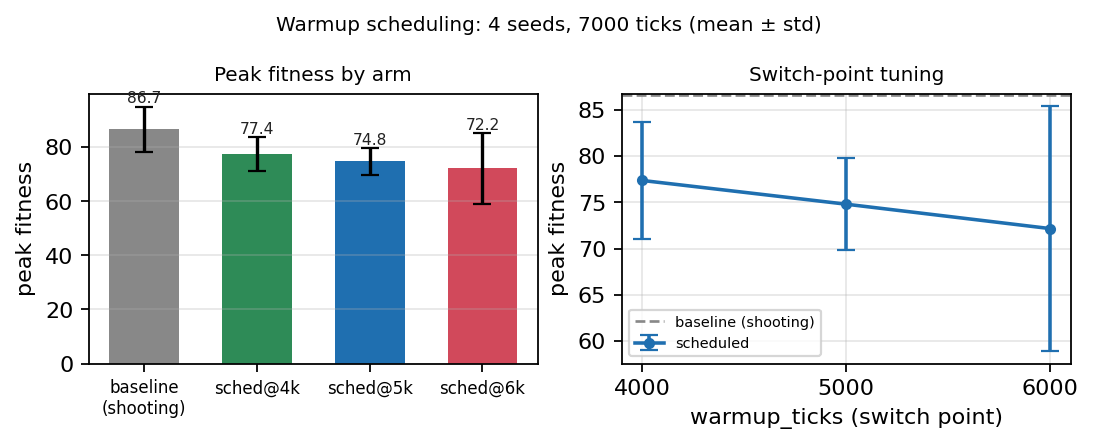
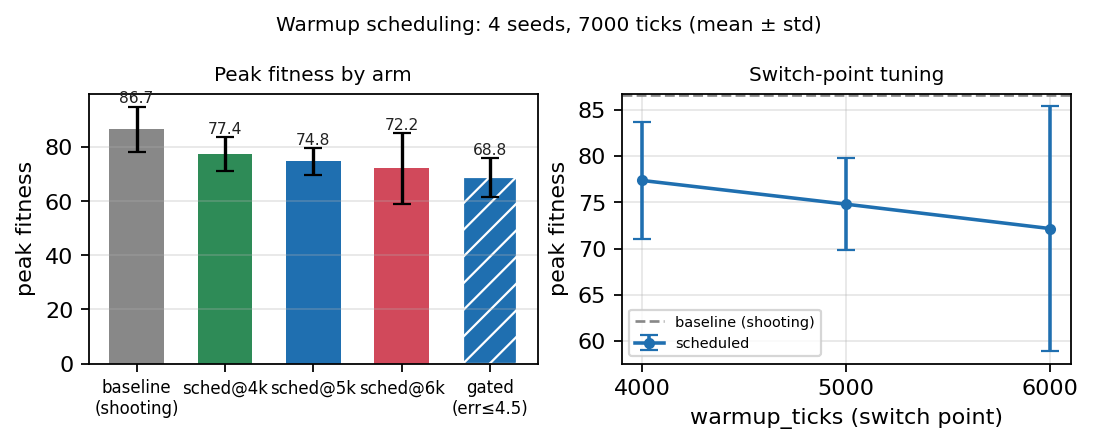
measure readiness gate downstream: does not rescue CEM+imagination (honest result)
A/B of the M2 error-threshold gate at the sweep's exact conditions
(planning_sched_gated_v35.yaml: P1 until per-agent rollout-error EMA <= 4.5,
deadline 6k; seeds 1-4 x 7,000 ticks):

- Gated peak 68.8 +/- 7.4, final 49.9 +/- 8.5 — 0/4 seeds beat the shooting
  baseline (86.7 +/- 8.4); trails even fixed sched@4k (77.4).
- Gate behaves correctly: earliest error crossing (seed 2, ~tick 2,500) gave
  the best gated run (81.5); seeds 3/4 never crossed and rode the 6k deadline.
  Per-agent gating + population turnover keeps switches late/partial (higher
  ticks/s for the gated arm).
- Conclusion across three designs (20-run replication, 16-run sweep, 4-run
  gated A/B): no gating policy, fixed or measured, makes CEM+imagination
  competitive with plain shooting on this task.

Artifacts: sweep dir gains results_gated.csv + gated_s*_metrics.csv + README
section; paper Sec 6.7 gains the gated paragraph + Table 11b (all per-run data
inline) with abstract/discussion/limitations updated; sweep figure gains the
hatched gated bar; PDF re-rendered; CHANGELOG + PLANNING_PROPOSAL updated.

Claude-Session: https://claude.ai/code/session_01C1EtwZYpscFZ8cTLNNm8Dj

Changed region(s): [[0.0932, 0.2045, 0.4973, 0.818], [0.0932, 0.8472, 0.4973, 0.9348]]

diff --git a/paper/paper.html b/paper/paper.html
@@ -112,7 +112,11 @@
   the diagnostic shows open-loop error falling 56% across 6,000 ticks — still
   unconverged when every fixed warmup switch point fires — and the multi-step
   loss reduces error exactly where the model is worst, at the start of training
-  (6.09&nbsp;±&nbsp;0.11 vs 6.56&nbsp;±&nbsp;0.09 at tick 1,000). The lesson is
+  (6.09&nbsp;±&nbsp;0.11 vs 6.56&nbsp;±&nbsp;0.09 at tick 1,000). A downstream
+  A/B of the readiness gate (4 seeds, 7,000 ticks) completes the picture: the
+  gated planner also fails to beat the baseline (peak 68.8&nbsp;±&nbsp;7.4 vs
+  86.7&nbsp;±&nbsp;8.4) — no gating policy, fixed or measured, rescues
+  CEM&nbsp;+&nbsp;imagination here. The lesson is
   methodological as much as algorithmic: a weak model can be genuinely useful
   (for exploration and action ranking), sharper search on the same weak model is
   <i>worse</i> than blunt search, single-seed effect sizes in ecological
@@ -664,9 +668,10 @@ this task at this model quality.</p>
 <figure class="fw">
   <img src="figures/warmup_sweep.png" alt="warmup sweep" style="max-width:88%"/>
 <figcaption><b>Figure 6.</b> Warmup confirmation + switch-point sweep (4 seeds,
-7,000 ticks, mean ± std). Left: peak fitness by arm. Right: the scheduled family
-against the baseline reference — earlier switches are better, none reach the
-baseline.</figcaption>
+7,000 ticks, mean ± std). Left: peak fitness by arm; the hatched bar is the
+readiness-<i>gated</i> variant (switch on measured error &le; 4.5, Sec.&nbsp;6.7).
+Right: the fixed-switch family against the baseline reference — earlier
+switches are better, none reach the baseline.</figcaption>
 </figure>
 
 <h3>6.7 Measuring the model itself</h3>
@@ -735,6 +740,43 @@ n&nbsp;=&nbsp;3, no benefit and no clear harm. Together with Sec.&nbsp;6.6 this
 says early model error is real and reducible, but <i>not the only</i> binding
 constraint on model-based planning here.</p>
 
+<p><b>Downstream test of the readiness gate.</b> Finally, we A/B the gate
+itself: the scheduled planner re-run at the sweep's exact conditions (seeds
+1&ndash;4, 7,000 ticks) but switching on the <b>measured</b> per-agent error
+EMA (threshold 4.5, picked where the mean curve of Fig.&nbsp;7 crosses &asymp;
+the sweep's best fixed point; deadline 6,000). Table&nbsp;11b gives every run.
+Aggregate: peak <b>68.8&nbsp;±&nbsp;7.4</b>, final 49.9&nbsp;±&nbsp;8.5 —
+<b>0/4 seeds beat the baseline</b> (86.7&nbsp;±&nbsp;8.4 /
+61.5&nbsp;±&nbsp;4.7), and the mean trails even the fixed sched@4k
+(77.4&nbsp;±&nbsp;6.3; the hatched bar in Fig.&nbsp;6). The gate behaved
+exactly as designed, and its internal pattern re-confirms the sweep's
+ordering: the seed whose error crossed earliest (seed 2, &asymp;2,500)
+produced the best gated run (81.5), while the two seeds that never crossed
+rode the 6k deadline — the worst fixed switch point. Two structural effects
+kept switches late: at threshold 4.5 the population-mean error stays high for
+most of the run, and the gate is <i>per-agent</i> — newborns start with a
+fresh error EMA, so population turnover continually re-enters warmup (visible
+as the gated arm's higher ticks/s: it pays for CEM&nbsp;+&nbsp;imagination
+less often). Raising the threshold can only converge toward sched@4k, which
+still loses. Across three independent designs — the 20-run replication, the
+16-run sweep, and this 4-run gated A/B — <b>no gating policy, fixed or
+measured, makes CEM&nbsp;+&nbsp;imagination competitive with plain shooting on
+this task.</b></p>
+
+<table class="t">
+  <caption><b>Table 11b.</b> Readiness-gated scheduled planner, complete
+  per-run data (switch when per-agent rollout-error EMA &le; 4.5, deadline
+  6,000; seeds 1&ndash;4, 7,000 ticks).</caption>
+  <thead><tr><th>seed</th><th>peak</th><th>lifespan</th><th>tiles</th><th>EAT</th>
+    <th>seeds</th><th>final</th><th>ticks/s</th><th class="l">pop-mean err crosses 4.5</th></tr></thead>
+  <tbody>
+    <tr><td>1</td><td>64.43</td><td>720.1</td><td>98.9</td><td>2045</td><td>1358</td><td>37.27</td><td>6.81</td><td class="l">&asymp; tick 4,700</td></tr>
+    <tr><td>2</td><td class="win">81.49</td><td>773.9</td><td>98.2</td><td>2420</td><td>1966</td><td>60.92</td><td>7.22</td><td class="l">&asymp; tick 2,500 (earliest)</td></tr>
+    <tr><td>3</td><td>65.65</td><td>715.4</td><td>65.8</td><td>1888</td><td>1718</td><td>48.91</td><td>6.92</td><td class="l">never — 6k deadline</td></tr>
+    <tr><td>4</td><td>63.66</td><td>708.1</td><td>44.4</td><td>1211</td><td>909</td><td>52.32</td><td>8.08</td><td class="l">never — 6k deadline</td></tr>
+  </tbody>
+</table>
+
 <h3>6.8 Population dynamics across founder counts</h3>
 <p class="noindent">Three v3.5+PPO worlds (48&times;48, cap 60) seeded with 8,
 24, and 48 founders (distinct seeds). Table&nbsp;12 samples the trajectories;
@@ -790,8 +832,12 @@ both vindicates and reframes the warmup idea: at tick 1,000 the model's rollout
 error is 2.3&times; its tick-6,000 level — the cold-start problem is real — but
 the error is still falling when every fixed switch point of Sec.&nbsp;6.6
 fires, so the gate was pointing at the right quantity and that quantity never
-reached "good." This is the infrastructure the earlier experiments should have
-had.</p>
+reached "good." The gated A/B closes the loop: switching on the measured error
+behaves sensibly (earliest crossing &rarr; best gated run) yet still loses to
+never switching at all — the right gate on machinery that does not pay for
+itself is still a loss. This is the infrastructure the earlier experiments
+should have had, and it is how we can now say the negative result is about the
+machinery, not the schedule.</p>
 <p><b>Replication is not optional.</b> Two effect sizes of +25&ndash;32% (P2,
 P3) and one 2-of-2-seed win (scheduled) all evaporated under 4 seeds. Ecological
 simulations with reproduction, death, and weather have enormous seed variance —
@@ -806,7 +852,8 @@ arm on every metric) but not a formal significance result. Horizons are short
 fitness is an in-silico proxy. The dynamics head is a deterministic MLP; the
 planner ignores predictive uncertainty (no ensemble). Sec.&nbsp;6.3 toggles
 planner and curiosity together. The multi-step-loss experiment measures model
-error, not downstream fitness, and its n = 3.</p>
+error, not downstream fitness, and its n = 3; the readiness-gate A/B is n = 4
+at a single, untuned threshold (4.5).</p>
 
 <h2>9. Conclusion</h2>
 <p class="noindent">We built a reproducible multi-agent evolutionary sandbox,
@@ -823,10 +870,11 @@ directly — is the quantity that decides which of these outcomes you get.
 <code>main.py --no-viz --learning --mode rl</code> runs over the
 <code>config/planning_*_v35.yaml</code> configs at the stated seeds/lengths;
 Sec.&nbsp;6.7 <code>config/wm_quality_{1step,multistep}_v35.yaml</code> with
-<code>--metrics-csv</code> (column <code>wm_rollout_error</code>); analysis
+<code>--metrics-csv</code> (column <code>wm_rollout_error</code>), and the
+gated A/B <code>config/planning_sched_gated_v35.yaml</code>; analysis
 <code>scripts/analyze_logs.py</code>; figures
 <code>paper/make_figures.py</code>. All per-run data appears inline in
-Tables&nbsp;6, 8, 9, and 11.</span></p>
+Tables&nbsp;6, 8, 9, 11, and 11b.</span></p>
 
 <div class="refs">
 <h2>References</h2>

diff --git a/paper/make_figures.py b/paper/make_figures.py
@@ -347,15 +347,27 @@ def fig_warmup_sweep():
         "sched4k": "sched@4k",
         "sched5k": "sched@5k",
         "sched6k": "sched@6k",
+        "gated": "gated\n(err\u22644.5)",
     }
     stats = _arm_stats(path, arms)
+    # adaptive readiness-gated arm (separate CSV; hatched = same scheduled
+    # family, switch point measured instead of fixed)
+    gpath = os.path.join(os.path.dirname(path), "results_gated.csv")
+    if os.path.exists(gpath):
+        stats.update(_arm_stats(gpath, ["gated"]))
+        arms = arms + ["gated"]
+        colors["gated"] = "#1f6fb0"
     fig, (a1, a2) = plt.subplots(1, 2, figsize=(6.8, 2.6), dpi=160)
     _bars(a1, arms, stats, colors, labels)
+    if "gated" in stats:  # hatch distinguishes the adaptive variant
+        a1.patches[len(arms) - 1].set_hatch("//")
+        a1.patches[len(arms) - 1].set_edgecolor("white")
     a1.set_ylabel("peak fitness")
     a1.set_title("Peak fitness by arm", fontsize=9)
     ws = [4000, 5000, 6000]
-    mus = [stats[a][0] for a in arms[1:]]
-    sds = [stats[a][1] for a in arms[1:]]
+    sched = ["sched4k", "sched5k", "sched6k"]
+    mus = [stats[a][0] for a in sched]
+    sds = [stats[a][1] for a in sched]
     a2.errorbar(
         ws,
         mus,

diff --git a/docs/PAPER.md b/docs/PAPER.md
@@ -43,7 +43,10 @@ compounding-error regime the planner actually uses. Measured over 3 seeds, the
 diagnostic shows open-loop error falling 56% across 6,000 ticks — still
 unconverged when every fixed warmup switch point fires — and the multi-step loss
 reduces error exactly where the model is worst, at the start of training
-(6.09 ± 0.11 vs 6.56 ± 0.09 at tick 1,000). The overall lesson is methodological as much as algorithmic: a weak
+(6.09 ± 0.11 vs 6.56 ± 0.09 at tick 1,000). A downstream A/B of the readiness
+gate (4 seeds, 7,000 ticks) completes the picture: the gated planner also fails
+to beat the baseline (peak 68.8 ± 7.4 vs 86.7 ± 8.4) — no gating policy, fixed
+or measured, rescues CEM + imagination here. The overall lesson is methodological as much as algorithmic: a weak
 model can be genuinely useful (for exploration and action ranking), sharper
 search on the same weak model is *worse* than blunt search, single-seed effect
 sizes in ecological simulations routinely evaporate under replication — and the
@@ -494,6 +497,34 @@ Three findings:
   error is real and reducible, but it is *not the only* binding constraint on
   model-based planning here.
 
+**Downstream test of the readiness gate.** Finally, we A/B the gate itself:
+the scheduled planner re-run at the sweep's exact conditions (seeds 1–4, 7,000
+ticks) but switching on the **measured** per-agent error EMA (threshold 4.5,
+picked where the mean curve above crosses ≈ the sweep's best fixed point;
+deadline 6,000). Full data:
+
+| seed | peak | lifespan | tiles | EAT | seeds | final | ticks/s | pop-mean error crosses 4.5 |
+|---|---|---|---|---|---|---|---|---|
+| 1 | 64.43 | 720.1 | 98.9 | 2045 | 1358 | 37.27 | 6.81 | ≈ tick 4,700 |
+| 2 | 81.49 | 773.9 | 98.2 | 2420 | 1966 | 60.92 | 7.22 | ≈ tick 2,500 |
+| 3 | 65.65 | 715.4 | 65.8 | 1888 | 1718 | 48.91 | 6.92 | never (6k deadline) |
+| 4 | 63.66 | 708.1 | 44.4 | 1211 | 909 | 52.32 | 8.08 | never (6k deadline) |
+
+Aggregate: peak **68.8 ± 7.4**, final 49.9 ± 8.5 — 0/4 seeds beat the baseline
+(86.7 ± 8.4 / 61.5 ± 4.7), and the mean trails even the fixed sched@4k
+(77.4 ± 6.3). The gate behaved exactly as designed, and its internal pattern
+re-confirms the sweep's ordering: the seed whose error crossed earliest (seed
+2, ≈ 2,500) produced the best gated run (81.5), while the two seeds that never
+crossed rode the 6k deadline — the worst fixed switch point. Two structural
+effects kept switches late: at threshold 4.5 the population-mean error stays
+high for most of the run, and the gate is *per-agent* — newborns start with a
+fresh error EMA, so population turnover continually re-enters warmup (visible
+as the gated arm's higher ticks/s: it pays for CEM + imagination less often).
+Raising the threshold can only converge toward sched@4k, which still loses.
+Across three independent designs — the 20-run replication, the 16-run sweep,
+and this 4-run gated A/B — **no gating policy, fixed or measured, makes
+CEM + imagination competitive with plain shooting on this task.**
+
 ### 6.8 Population dynamics across founder counts
 
 Three v3.5+PPO worlds (48×48, cap 60) seeded with 8, 24, and 48 founders.
@@ -541,7 +572,12 @@ vindicates and reframes the warmup idea: at tick 1,000 the model's rollout
 error is 2.3× its tick-6,000 level — the cold-start problem is real — but the
 error is still falling when every fixed switch point of Sec. 6.6 fires, so the
 gate was pointing at the right quantity and that quantity never reached "good."
-This is the infrastructure the earlier experiments should have had.
+The gated A/B closes the loop: switching on the measured error behaves
+sensibly (earliest crossing → best gated run) yet still loses to never
+switching at all — the right gate on machinery that does not pay for itself is
+still a loss. This is the infrastructure the earlier experiments should have
+had, and it is how we can now say the negative result is about the machinery,
+not the schedule.
 
 **Replication is not optional.** Two effect sizes of +25–32% (P2, P3) and one
 2-out-of-2-seed win (scheduled) all evaporated under 4 seeds. Ecological
@@ -557,7 +593,8 @@ formal significance result. Horizons are short (2k–7k ticks), worlds small
 (48–160 per side, ≤100 agents), and fitness is in-silico. The dynamics head is a
 deterministic MLP; the planner ignores predictive uncertainty (no ensemble).
 Sec. 6.3 toggles planner and curiosity together. The multi-step-loss experiment
-measures model error, not downstream fitness, and its n = 3.
+measures model error, not downstream fitness, and its n = 3; the readiness-gate
+A/B is n = 4 at a single, untuned threshold (4.5).
 
 ## 9. Conclusion
 
@@ -577,7 +614,7 @@ per-run data (inline above), and the viewers are released.
 - Sec. 6.3 two runs of `python main.py --no-viz --seed 42 --learning --mode rl --generations 3` with `config/worldmodel_v35.yaml` vs `config/planning_curiosity_v35.yaml`
 - Sec. 6.4 same at 2,000 ticks with `config/planning_p1_v35.yaml` / `planning_p2_v35.yaml` / `planning_p3_v35.yaml` (+ `_base`)
 - Sec. 6.5 seeds 1–4 over the five arms; Sec. 6.6 `planning_sched_baseline_v35.yaml`, `planning_sched4k_v35.yaml`, `planning_scheduled_v35.yaml`, `planning_sched6k_v35.yaml`, 7 generations
-- Sec. 6.7 `config/wm_quality_1step_v35.yaml` vs `config/wm_quality_multistep_v35.yaml`, seeds 1–3, `--metrics-csv` (column `wm_rollout_error`)
+- Sec. 6.7 `config/wm_quality_1step_v35.yaml` vs `config/wm_quality_multistep_v35.yaml`, seeds 1–3, `--metrics-csv` (column `wm_rollout_error`); gated A/B: `config/planning_sched_gated_v35.yaml`, seeds 1–4, 7 generations
 - Analysis: `python scripts/analyze_logs.py --file <run>/agent_actions_*.csv`; figures: `python paper/make_figures.py`
 
 ## References

diff --git a/docs/sample_planning_warmup_sweep/README.md b/docs/sample_planning_warmup_sweep/README.md
@@ -63,6 +63,36 @@ close the gap.
   `shooting` planner is the recommended default — CEM and imagination, even
   gated on a warmed-up world model, did not earn their keep.
 
+## Follow-up: readiness-GATED switching (measured error, not ticks)
+
+The model-quality toolkit (`docs/sample_wm_quality/`) makes it possible to gate
+the switch on the **measured k-step rollout error** instead of a blind tick
+count (`config/planning_sched_gated_v35.yaml`: P1 until the per-agent error EMA
+≤ 4.5, deadline 6k, imagination gated the same way). Re-run at the same 4 seeds
+× 7,000 ticks (`results_gated.csv`, per-run metrics `gated_s*_metrics.csv`):
+
+| seed | peak | final | seeds planted | ticks/s | pop-mean err crosses 4.5 |
+|---|---|---|---|---|---|
+| 1 | 64.43 | 37.27 | 1358 | 6.81 | ≈ tick 4,700 |
+| 2 | **81.49** | 60.92 | 1966 | 7.22 | ≈ tick 2,500 (earliest → best gated run) |
+| 3 | 65.65 | 48.91 | 1718 | 6.92 | never — 6k deadline fired |
+| 4 | 63.66 | 52.32 | 909 | 8.08 | never — 6k deadline fired |
+| **mean ± std** | **68.8 ± 7.4** | 49.9 ± 8.5 | 1488 | 7.3 | — |
+
+**The adaptive gate does not close the gap either**: 0/4 seeds beat the
+baseline (86.7 ± 8.4), and the aggregate trails even the fixed sched@4k
+(77.4 ± 6.3). The mechanism worked as designed — and its internal pattern
+re-confirms the sweep's ordering (the seed whose error crossed earliest scored
+best; the two deadline seeds behaved like sched@6k, the worst fixed point).
+Two structural reasons: with threshold 4.5 the population-mean error often
+stays high until late, and the gate is **per-agent** — newborns start with a
+fresh error EMA, so population turnover keeps much of the population in the
+cheap warmup strategy (visible as the higher ticks/s). Raising the threshold
+would only converge toward sched@4k, which still loses. Across three
+independent designs (20-run replication, 16-run sweep, 4-run gated A/B), no
+gating policy — fixed or measured — makes CEM + imagination competitive with
+plain `shooting` on this task.
+
 ## Why this matters (and what it doesn't say)
 
 This does **not** show CEM/imagination are useless in general — only that on

diff --git a/CHANGELOG.md b/CHANGELOG.md
@@ -1,5 +1,24 @@
 # Changelog
 
+## [Unreleased] — readiness gate measured downstream (does not rescue CEM+imagination)
+
+A/B of the M2 readiness gate at the sweep's exact conditions
+(`config/planning_sched_gated_v35.yaml`: P1 until the per-agent rollout-error
+EMA ≤ 4.5, deadline 6k; seeds 1–4 × 7,000 ticks):
+
+- **Gated peak 68.8 ± 7.4, final 49.9 ± 8.5 — 0/4 seeds beat the baseline**
+  (86.7 ± 8.4 / 61.5 ± 4.7); trails even fixed sched@4k (77.4 ± 6.3).
+- The gate works as designed and re-confirms the ordering: the seed whose error
+  crossed earliest (≈2.5k) scored the best gated run (81.5); two seeds never
+  crossed and rode the 6k deadline. Per-agent gating + population turnover
+  (newborns re-enter warmup with a fresh EMA) keeps switches late/partial.
+- Conclusion across three designs (20-run replication, 16-run sweep, 4-run
+  gated A/B): **no gating policy, fixed or measured, makes CEM + imagination
+  competitive with plain `shooting` here** — the negative result is about the
+  machinery, not the schedule. Data: `docs/sample_planning_warmup_sweep/`
+  (`results_gated.csv`, `gated_s*_metrics.csv`); paper Sec. 6.7 (Table 11b),
+  hatched bar in the sweep figure.
+
 ## [Unreleased] — world-model quality toolkit (M1–M3) + paper rewrite
 
 The planning studies kept implicating compounding open-loop model error, which

diff --git a/docs/PLANNING_PROPOSAL.md b/docs/PLANNING_PROPOSAL.md
@@ -352,6 +352,14 @@ error wiring), `utils/agents/metrics.py`. Tests: `tests/test_model_quality.py`.
 Measured validation (1-step vs multi-step arms, 3 seeds × 6,000 ticks) lives in
 `docs/sample_wm_quality/` and the paper's Sec. 6.7.
 
+**M2 measured downstream (4 seeds × 7,000 ticks,
+`config/planning_sched_gated_v35.yaml`): the gate does not rescue
+CEM + imagination.** Gated peak 68.8 ± 7.4 vs baseline 86.7 ± 8.4 (0/4 seeds
+win; trails fixed sched@4k too). The mechanism behaves correctly — earliest
+error crossing produced the best gated run — but across the replication, the
+sweep, and this A/B, no gating policy makes the heavy planners pay on this
+task. See `docs/sample_planning_warmup_sweep/` (gated section).
+
 ## 5. Recommendation & sequencing
 
 1. **P1 now.** Policy-guided rollouts + policy-biased first action +